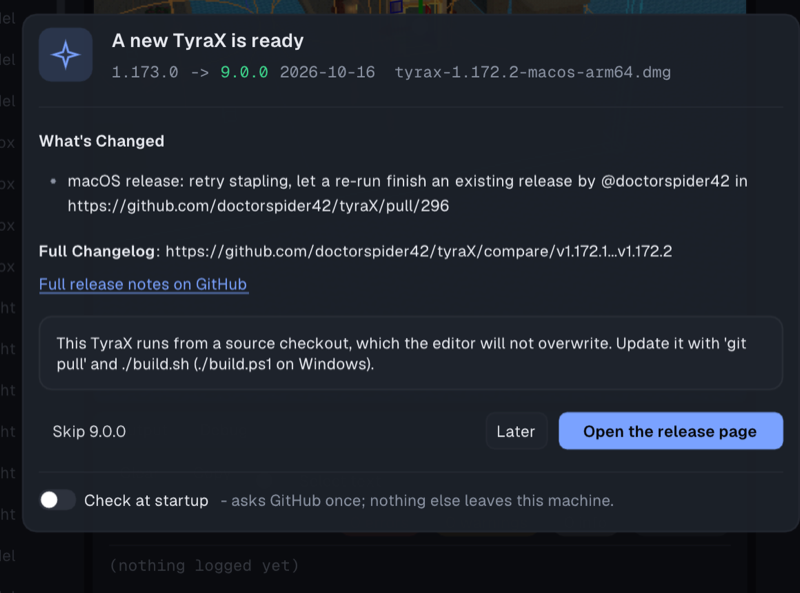
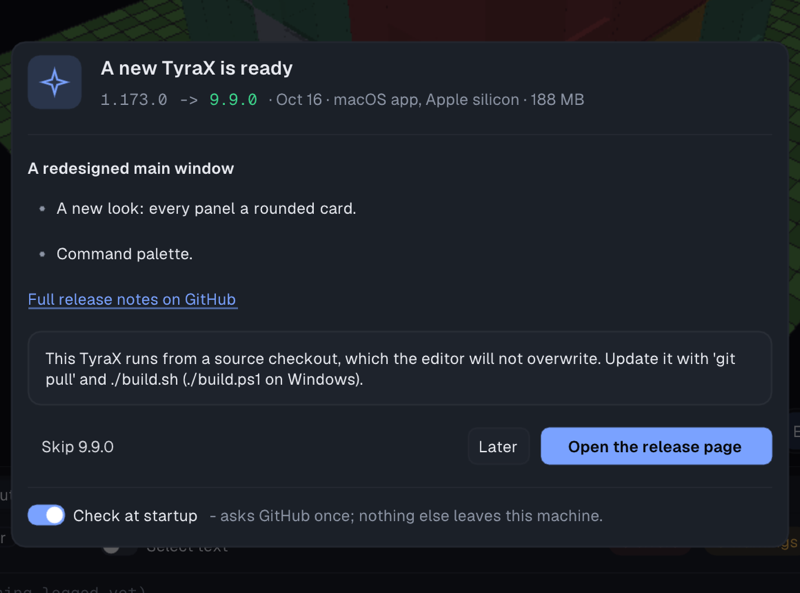
Update dialog: the header names the package in words, with its size
Divergence: the header showed "2026-10-16  TyraX-9.9.0-macos-arm64.dmg"; the
design reads "1.172.0 -> 1.173.0 · Oct 16 · macOS app, Apple silicon" and
gives the size.

Fix: describeAsset() turns the release asset (matched by the same suffixes
as platformAssetSuffix) into "macOS app, Apple silicon / Intel", "Windows
installer", "Linux, x86-64", plus "· 188 MB" from the asset's size; the date
reads "Oct 16". The words are in the UI face, the versions stay mono.

Verified: a fake `curl` on PATH printing a release JSON and "\n200",
Help > Check for updates: "1.173.0 -> 9.9.0 · Oct 16 · macOS app, Apple
silicon · 188 MB". docs/img/update-dialog.png retaken.

diff --git a/src/update_ui.cpp b/src/update_ui.cpp
@@ -12,8 +12,11 @@
 #include <imgui.h>
 #include <imgui_internal.h>
 
+#include <cctype>
 #include <cstdio>
+#include <cstring>
 #include <sstream>
+#include <string>
 
 #include "app.hpp"
 #include "app_internal.hpp"
@@ -280,6 +283,42 @@ void drawReleaseNotes(const std::string& md) {
     flushPara();
 }
 
+// The release asset in words, the way the header names it: what kind of
+// package for which machine, then its size - "macOS app, Apple silicon ·
+// 188 MB" - instead of the file name the release workflow stamped.
+std::string describeAsset(const std::string& name, long long bytes) {
+    auto ends = [&](const char* suf) {
+        const size_t n = std::strlen(suf);
+        if (name.size() < n) return false;
+        for (size_t i = 0; i < n; ++i)
+            if (std::tolower((unsigned char)name[name.size() - n + i]) != suf[i]) return false;
+        return true;
+    };
+    std::string what;
+    if (ends("-macos-arm64.dmg")) what = "macOS app, Apple silicon";
+    else if (ends("-macos-x86_64.dmg")) what = "macOS app, Intel";
+    else if (ends(".dmg")) what = "macOS app";
+    else if (ends(".exe")) what = "Windows installer";
+    else if (ends("-linux-x86_64.tar.gz")) what = "Linux, x86-64";
+    else if (ends(".tar.gz")) what = "Linux";
+    else what = name;
+    if (bytes > 0) {
+        char mb[32];
+        std::snprintf(mb, sizeof(mb), "%.0f MB", (double)bytes / 1048576.0);
+        what += what.empty() ? std::string(mb) : std::string(" \xC2\xB7 ") + mb;
+    }
+    return what;
+}
+
+// "2026-10-16" -> "Oct 16"; anything else as it came.
+std::string shortDate(const std::string& iso) {
+    static const char* const kMon[12] = {"Jan", "Feb", "Mar", "Apr", "May", "Jun",
+                                         "Jul", "Aug", "Sep", "Oct", "Nov", "Dec"};
+    int y = 0, m = 0, d = 0;
+    if (std::sscanf(iso.c_str(), "%d-%d-%d", &y, &m, &d) != 3 || m < 1 || m > 12) return iso;
+    return std::string(kMon[m - 1]) + " " + std::to_string(d);
+}
+
 }  // namespace
 
 void App::drawUpdateModal() {
@@ -341,11 +380,13 @@ void App::drawUpdateModal() {
             ImGui::TextUnformatted(updateRelease_.version.c_str());
             ImGui::PopStyleColor();
             std::string meta;
-            if (!updateRelease_.published.empty()) meta += updateRelease_.published;
+            if (!updateRelease_.published.empty()) meta += "\xC2\xB7 " + shortDate(updateRelease_.published);
             if (!updateRelease_.assetName.empty())
-                meta += (meta.empty() ? "" : "  ") + updateRelease_.assetName;
+                meta += (meta.empty() ? "\xC2\xB7 " : " \xC2\xB7 ") +
+                        describeAsset(updateRelease_.assetName, updateRelease_.assetBytes);
             if (!meta.empty()) {
                 ImGui::SameLine();
+                ui::FontScope words(ImGui::GetDefaultFont());  // words, not numbers: the UI face
                 ImGui::PushStyleColor(ImGuiCol_Text, sem.textDim);
                 ImGui::TextUnformatted(meta.c_str());
                 ImGui::PopStyleColor();

diff --git a/docs/updates.md b/docs/updates.md
@@ -185,7 +185,8 @@ offline, nothing is shown at all; an editor that opens a dialog about your
 Wi-Fi is an editor whose update check people switch off.
 
 The dialog shows the version jump (yours -> the new one), the release date
-and the package it would install, then **the release notes, rendered**
+and the package it would install in words, with its size (*Oct 16 · macOS
+app, Apple silicon · 188 MB*), then **the release notes, rendered**
 (headings, bullets, bold - not raw markdown) in a scroller, with *Full release
 notes on GitHub* under them. A card says what installing does to this session
 before you click: TyraX closes, installs and reopens, and if the open project
